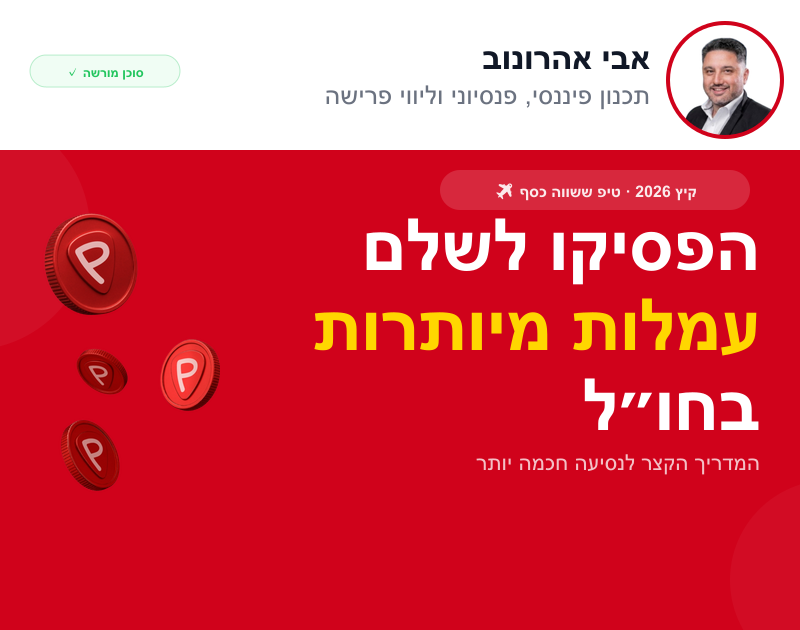
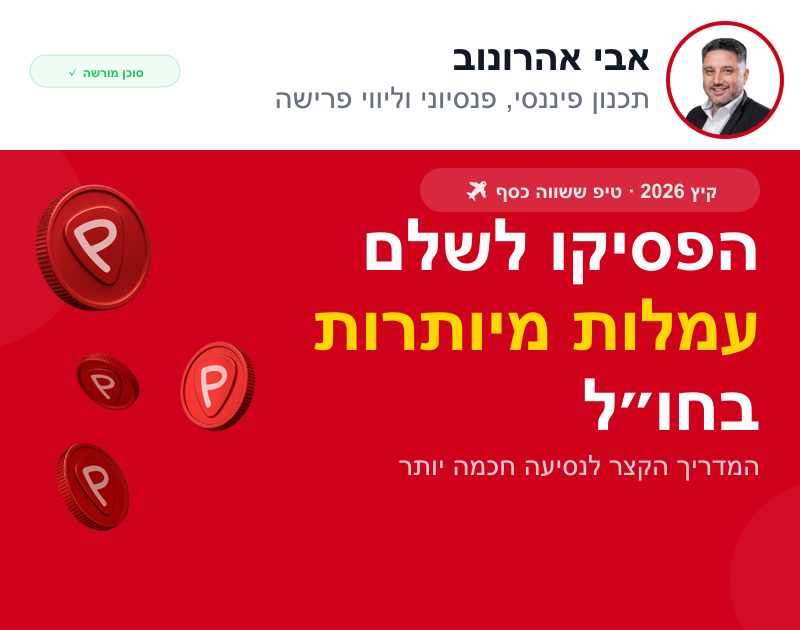
Increase OG preview image text sizes
Agent name 34→40px, title 26→30px, קיץ badge 16→20px,
subtitle 22→28px, coins 200→250px. Preview image only.

diff --git a/scripts/generate-og.js b/scripts/generate-og.js
@@ -25,12 +25,12 @@ const BORDER_WIDTH = 4;
 const BORDER_COLOR = '#D0021B';
 
 const NAME_X = 650;
-const NAME_Y = 35;
-const NAME_FONT_SIZE = 34;
+const NAME_Y = 30;
+const NAME_FONT_SIZE = 40;
 
 const TITLE_X = 650;
 const TITLE_Y = 78;
-const TITLE_FONT_SIZE = 26;
+const TITLE_FONT_SIZE = 30;
 
 function escapeXml(str) {
   return str.replace(/&/g, '&amp;').replace(/</g, '&lt;').replace(/>/g, '&gt;').replace(/"/g, '&quot;').replace(/'/g, '&apos;');
